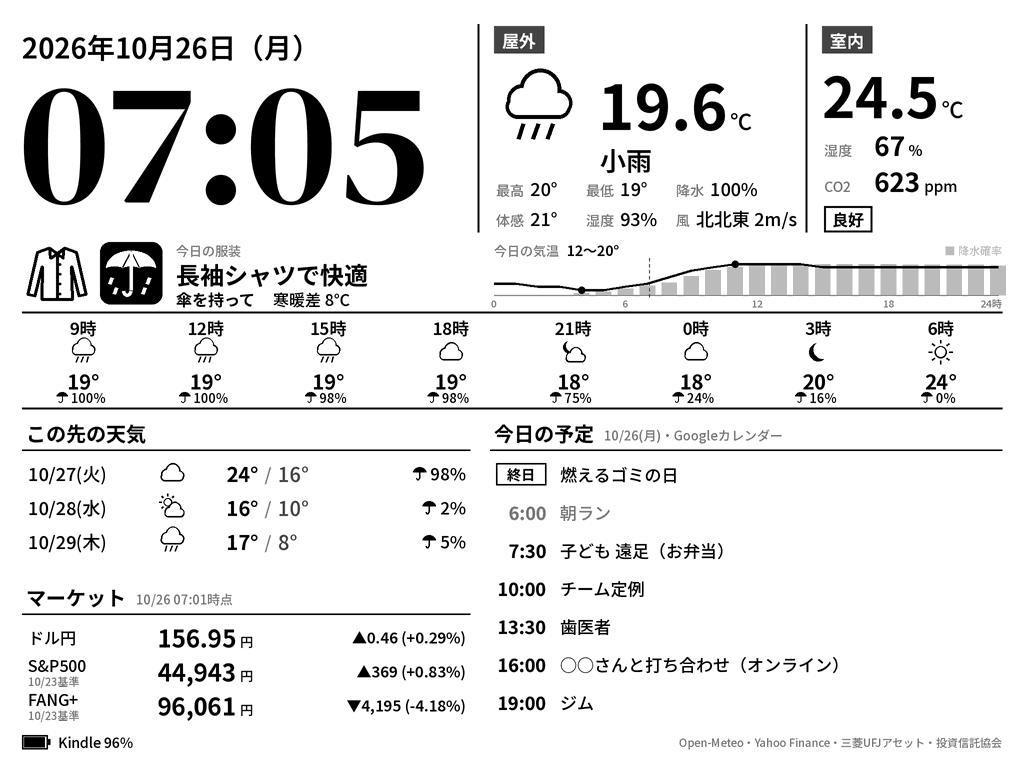
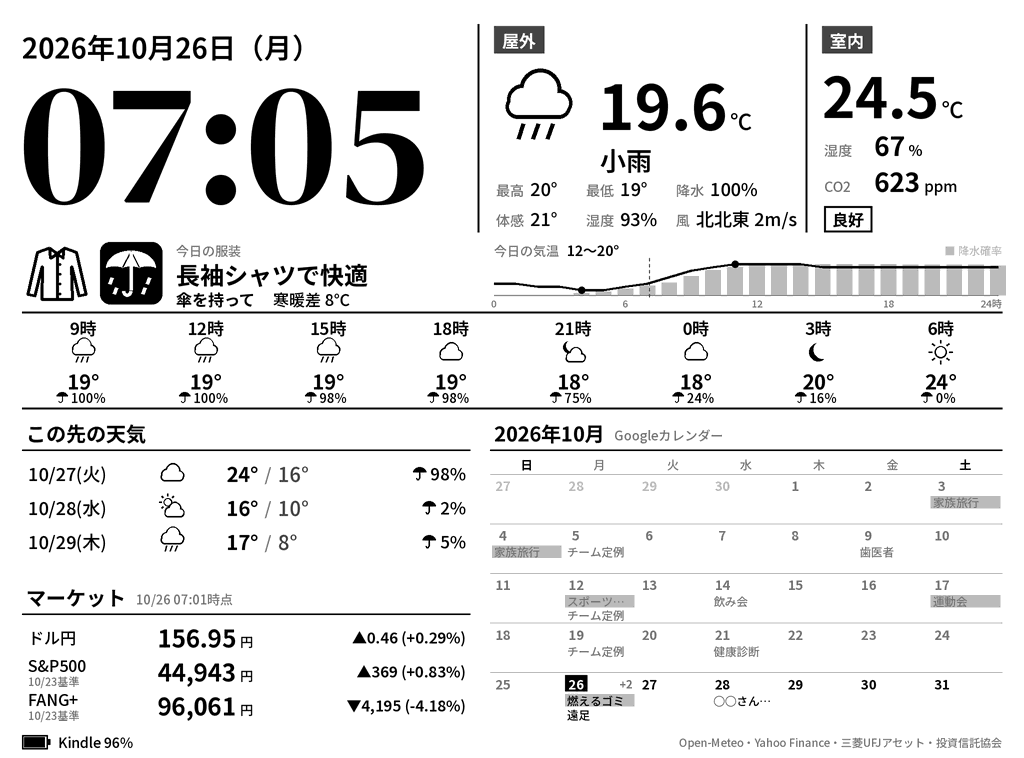
kindle_dashboard: show the calendar as a month view
Replace the today's-events list with a month grid (Sunday or Monday
start) showing event titles per day, Japanese holidays (jpholiday),
all-day events as bars, today highlighted and past days greyed.

Claude-Session: https://claude.ai/code/session_01U5J8BxMP2MPkhSzA51AjtL

diff --git a/kindle_dashboard/server/dashboard/render.py b/kindle_dashboard/server/dashboard/render.py
@@ -14,6 +14,7 @@ from pathlib import Path
 from PIL import Image, ImageDraw, ImageFont
 
 from . import icons
+from . import gcal
 from .gcal import Event
 from .sources import Indoor, Quote, Weather, co2_level, icon_kind, weather_label, wind_direction_ja
 
@@ -41,8 +42,8 @@ class DashboardData:
     charging: bool = False
     failing: list[str] = field(default_factory=list)
     news_label: str = "NHKニュース"
-    events: list[Event] | None = None  # None ならニュース、リストなら今日の予定を出す
-    events_label: str = "今日の予定"
+    events: list[Event] | None = None  # None ならニュース、リストなら今月のカレンダーを出す
+    week_start: str = "sunday"
     credits: str = "Open-Meteo・Yahoo Finance・三菱UFJアセット・投資信託協会"
 
 
@@ -416,30 +417,49 @@ def draw_news(c: Canvas, news: list[str], label: str):
         c.text(x0 + 20, mid, c.fit(title, 17, "Medium", x1 - x0 - 24), 17, "Medium", anchor="lm")
 
 
-def draw_events(c: Canvas, events: list[Event], now: datetime, label: str):
-    """ニュース欄の代わりに今日の予定。左に時刻（終日は枠付き）、終わった予定は灰色。"""
+def draw_month(c: Canvas, events: list[Event], now: datetime, week_start: str = "sunday"):
+    """ニュース欄の代わりに今月のカレンダー。祝日・終日予定は灰色の帯、今日は日付を白黒反転。"""
     x0, x1, y = 490, c.w - M, LOWER_TOP
-    day = f"{now.month}/{now.day}({WEEKDAYS[now.weekday()]})・Googleカレンダー"
-    draw_heading(c, x0, x1, y, label, day)
-    if not events:
-        c.text(x0 + 8, y + 56, "予定はありません", 18, "Medium", fill=GRAY, anchor="lm")
-        return
-    rows = 7
-    shown = events if len(events) <= rows else events[:rows - 1]
-    for i, ev in enumerate(shown):
-        mid = y + 38 + i * 38 + 18
-        color = GRAY if ev.end <= now else BLACK
-        if ev.all_day:
-            c.rect(x0 + 6, mid - 11, x0 + 56, mid + 11, outline=color, width=1.5)
-            c.text(x0 + 31, mid, "終日", 14, "Bold", fill=color, anchor="mm")
-        else:
-            start = ev.start if ev.start.date() == now.date() else None
-            text = f"{start.hour}:{start:%M}" if start else "〜"
-            c.text(x0 + 56, mid, text, 18, "Bold", fill=color, anchor="rm")
-        c.text(x0 + 70, mid, c.fit(ev.title, 17, "Medium", x1 - x0 - 74), 17, "Medium", fill=color, anchor="lm")
-    if len(events) > rows:
-        mid = y + 38 + (rows - 1) * 38 + 18
-        c.text(x0 + 70, mid, f"ほか {len(events) - len(shown)} 件", 16, "Medium", fill=GRAY, anchor="lm")
+    draw_heading(c, x0, x1, y, f"{now.year}年{now.month}月", "Googleカレンダー")
+    grid = gcal.month_grid(now.date(), week_start)
+    events = events + gcal.holidays(grid[0][0], grid[-1][-1], now.tzinfo)
+    names = "日月火水木金土" if week_start == "sunday" else "月火水木金土日"
+    cw = (x1 - x0) / 7
+    head_y = y + 46
+    for i, name in enumerate(names):
+        weekend = name in "日土"
+        c.text(x0 + cw * i + cw / 2, head_y, name, 12, "Bold" if weekend else "Medium",
+               fill=BLACK if weekend else GRAY, anchor="mm")
+
+    top, bottom = head_y + 10, 722
+    rh = (bottom - top) / len(grid)
+    line_h, size = 14, 11.5
+    for r, week in enumerate(grid):
+        ry = top + r * rh
+        c.line(x0, ry, x1, ry, 1, fill=LIGHT)
+        for i, day in enumerate(week):
+            cx = x0 + i * cw
+            in_month = day.month == now.month
+            past = day < now.date()
+            color = BLACK if in_month and not past else GRAY if in_month else LIGHT
+            if day == now.date():
+                c.rect(cx + 2, ry + 3, cx + 24, ry + 19, fill=BLACK)
+                c.text(cx + 13, ry + 11, str(day.day), 13, "Bold", fill=WHITE, anchor="mm")
+            else:
+                c.text(cx + 13, ry + 11, str(day.day), 13, "Bold", fill=color, anchor="mm")
+            if not in_month:
+                continue
+            todays = gcal.events_on(events, day)
+            room = max(0, int((rh - 21) // line_h))
+            shown = todays[:room]
+            for k, ev in enumerate(shown):
+                ey = ry + 21 + k * line_h + line_h / 2
+                fill = GRAY if past else BLACK
+                if ev.all_day:  # 終日・祝日は帯
+                    c.rect(cx + 2, ey - line_h / 2 + 1, cx + cw - 2, ey + line_h / 2 - 1, fill=LIGHT)
+                c.text(cx + 4, ey, c.fit(ev.title, size, "Medium", cw - 8), size, "Medium", fill=fill, anchor="lm")
+            if len(todays) > len(shown):  # 入りきらない件数は日付の右に
+                c.text(cx + cw - 4, ry + 11, f"+{len(todays) - len(shown)}", 11, "Bold", fill=GRAY, anchor="rm")
 
 
 def draw_footer(c: Canvas, data: DashboardData):
@@ -470,7 +490,7 @@ def render(data: DashboardData, fonts: Fonts, width: int = 1024, height: int = 7
     if data.events is None:
         draw_news(c, data.news, data.news_label)
     else:
-        draw_events(c, data.events, data.now, data.events_label)
+        draw_month(c, data.events, data.now, data.week_start)
     draw_footer(c, data)
     return c.finish()
 

diff --git a/kindle_dashboard/server/dashboard/gcal.py b/kindle_dashboard/server/dashboard/gcal.py
@@ -1,4 +1,4 @@
-"""Google カレンダー（iCal 形式の非公開 URL）から今日の予定を読む。
+"""Google カレンダー（iCal 形式の非公開 URL）から今月の予定を読む。
 
 Google カレンダー → 設定 → 対象のカレンダー →「カレンダーの統合」→「iCal 形式の非公開 URL」
 をコピーして使う。OAuth の設定は不要。繰り返し予定も展開する。
@@ -10,6 +10,7 @@ from dataclasses import dataclass
 from datetime import date, datetime, time, timedelta
 from zoneinfo import ZoneInfo
 
+import jpholiday
 import recurring_ical_events
 from icalendar import Calendar
 
@@ -22,6 +23,7 @@ class Event:
     start: datetime  # 終日予定はその日の 0:00
     end: datetime
     all_day: bool
+    holiday: bool = False  # 祝日（カレンダーではなく jpholiday から）
 
 
 def _to_datetime(value, tz: ZoneInfo) -> tuple[datetime, bool]:
@@ -32,10 +34,10 @@ def _to_datetime(value, tz: ZoneInfo) -> tuple[datetime, bool]:
     return datetime.combine(value, time(), tz), True
 
 
-def parse_events(ics_list: list[bytes], day: date, tz: ZoneInfo) -> list[Event]:
-    """その日にかかる予定を、終日 → 開始時刻順に並べて返す。"""
-    start = datetime.combine(day, time(), tz)
-    end = start + timedelta(days=1)
+def parse_events(ics_list: list[bytes], first: date, last: date, tz: ZoneInfo) -> list[Event]:
+    """first〜last（両端含む）にかかる予定を、終日 → 開始時刻順に並べて返す。"""
+    start = datetime.combine(first, time(), tz)
+    end = datetime.combine(last + timedelta(days=1), time(), tz)
     events = []
     for ics in ics_list:
         cal = Calendar.from_ical(ics)
@@ -52,8 +54,37 @@ def parse_events(ics_list: list[bytes], day: date, tz: ZoneInfo) -> list[Event]:
     return sorted(events, key=lambda ev: (not ev.all_day, ev.start, ev.title))
 
 
-def fetch_events(urls: list[str], now: datetime) -> list[Event]:
-    return parse_events([http_get(u, timeout=30) for u in urls], now.date(), now.tzinfo)
+def month_grid(day: date, week_start: str = "sunday") -> list[list[date]]:
+    """day を含む月のカレンダー（週ごとの日付。前後の月の日も含む）。"""
+    first = day.replace(day=1)
+    offset = (first.weekday() + (1 if week_start == "sunday" else 0)) % 7
+    d = first - timedelta(days=offset)
+    weeks = []
+    while not weeks or d.month == day.month:
+        weeks.append([d + timedelta(days=i) for i in range(7)])
+        d += timedelta(days=7)
+    return weeks
+
+
+def holidays(first: date, last: date, tz: ZoneInfo) -> list[Event]:
+    return [Event(name, datetime.combine(d, time(), tz), datetime.combine(d + timedelta(days=1), time(), tz),
+                  True, holiday=True)
+            for d, name in jpholiday.between(first, last)]
+
+
+def events_on(events: list[Event], day: date) -> list[Event]:
+    """その日にかかる予定（祝日 → 終日 → 時刻順）。"""
+    tz = events[0].start.tzinfo if events else None
+    start = datetime.combine(day, time(), tz)
+    end = start + timedelta(days=1)
+    hits = [e for e in events if e.start < end and (e.end > start or (e.end == e.start and e.start >= start))]
+    return sorted(hits, key=lambda e: (not e.holiday, not e.all_day, e.start, e.title))
+
+
+def fetch_events(urls: list[str], now: datetime, week_start: str = "sunday") -> list[Event]:
+    """今月のカレンダーに表示する範囲（前後の週の端数を含む）の予定。"""
+    grid = month_grid(now.date(), week_start)
+    return parse_events([http_get(u, timeout=30) for u in urls], grid[0][0], grid[-1][-1], now.tzinfo)
 
 
 def calendar_urls(cfg: dict, env: dict[str, str]) -> list[str]:

diff --git a/kindle_dashboard/server/tests/test_gcal.py b/kindle_dashboard/server/tests/test_gcal.py
@@ -60,17 +60,43 @@ END:VCALENDAR
 """.encode()
 
 
-def test_parse_events_expands_recurrence_and_sorts():
-    events = gcal.parse_events([ICS, OTHER], date(2026, 10, 26), TZ)
-    assert [e.title for e in events] == ["燃えるゴミの日", "朝ラン", "家族カレンダーの予定", "チーム定例"]
-    assert events[0].all_day
-    assert events[1].start == datetime(2026, 10, 26, 6, 30, tzinfo=TZ)  # UTC → 日本時間
-    assert events[3].start.hour == 10
+def test_parse_events_expands_recurrence_over_month():
+    events = gcal.parse_events([ICS, OTHER], date(2026, 9, 27), date(2026, 10, 31), TZ)
+    weekly = [e.start.day for e in events if e.title == "チーム定例"]
+    assert weekly == [5, 12, 19, 26]  # 毎週月曜
+    assert "中止" not in [e.title for e in events]
 
 
-def test_parse_events_other_weekday_has_no_weekly_event():
-    titles = [e.title for e in gcal.parse_events([ICS], date(2026, 10, 27), TZ)]
-    assert titles == ["明日の予定"]
+def test_events_on_day_sorted_and_utc_converted():
+    events = gcal.parse_events([ICS, OTHER], date(2026, 9, 27), date(2026, 10, 31), TZ)
+    day = gcal.events_on(events, date(2026, 10, 26))
+    assert [e.title for e in day] == ["燃えるゴミの日", "朝ラン", "家族カレンダーの予定", "チーム定例"]
+    assert day[1].start == datetime(2026, 10, 26, 6, 30, tzinfo=TZ)  # UTC → 日本時間
+    assert [e.title for e in gcal.events_on(events, date(2026, 10, 27))] == ["明日の予定"]
+
+
+def test_multi_day_all_day_event_appears_on_each_day():
+    ev = gcal.Event("旅行", datetime(2026, 10, 3, tzinfo=TZ), datetime(2026, 10, 5, tzinfo=TZ), True)
+    assert [bool(gcal.events_on([ev], date(2026, 10, d))) for d in (2, 3, 4, 5)] == [False, True, True, False]
+
+
+def test_holidays_come_first():
+    hol = gcal.holidays(date(2026, 10, 1), date(2026, 10, 31), TZ)
+    assert [(e.start.day, e.title) for e in hol] == [(12, "スポーツの日")]
+    ev = gcal.Event("朝の予定", datetime(2026, 10, 12, 7, tzinfo=TZ), datetime(2026, 10, 12, 8, tzinfo=TZ), False)
+    assert [e.title for e in gcal.events_on([ev] + hol, date(2026, 10, 12))] == ["スポーツの日", "朝の予定"]
+
+
+@pytest.mark.parametrize("day,week_start,weeks,first,last", [
+    (date(2026, 10, 26), "sunday", 5, date(2026, 9, 27), date(2026, 10, 31)),
+    (date(2026, 2, 10), "sunday", 4, date(2026, 2, 1), date(2026, 2, 28)),
+    (date(2026, 8, 1), "sunday", 6, date(2026, 7, 26), date(2026, 9, 5)),
+    (date(2026, 10, 26), "monday", 5, date(2026, 9, 28), date(2026, 11, 1)),
+])
+def test_month_grid(day, week_start, weeks, first, last):
+    grid = gcal.month_grid(day, week_start)
+    assert len(grid) == weeks and grid[0][0] == first and grid[-1][-1] == last
+    assert all(len(w) == 7 for w in grid)
 
 
 @pytest.mark.parametrize("hhmm,expected", [("02:59", False), ("03:00", True), ("08:59", True), ("09:00", False)])
@@ -100,7 +126,7 @@ def _dash(hour, value):
 
 
 def test_dashboard_shows_events_only_in_window():
-    events = gcal.parse_events([ICS], date(2026, 10, 26), TZ)
+    events = gcal.parse_events([ICS], date(2026, 9, 27), date(2026, 10, 31), TZ)
     assert _dash(7, events).events == events
     assert _dash(10, events).events is None  # 時間帯外はニュース
 

diff --git a/kindle_dashboard/server/dashboard/app.py b/kindle_dashboard/server/dashboard/app.py
@@ -42,9 +42,9 @@ DEFAULT_CONFIG = {
          "unit": "円", "decimals": 0, "refresh_minutes": 60},  # iFreeNEXT FANG+インデックス
     ]},
     "indoor": {"provider": "none", "device_id": ""},
-    # Google カレンダー: window の時間帯だけニュース欄を今日の予定に替える。
+    # Google カレンダー: window の時間帯だけニュース欄を今月のカレンダーに替える。
     # ics_urls は「iCal 形式の非公開 URL」（環境変数 CALENDAR_ICS_URLS でも可）
-    "calendar": {"ics_urls": [], "window": ["03:00", "09:00"], "label": "今日の予定"},
+    "calendar": {"ics_urls": [], "window": ["03:00", "09:00"], "week_start": "sunday"},
     "credits": "Open-Meteo・Yahoo Finance・三菱UFJアセット・投資信託協会",
 }
 
@@ -73,7 +73,8 @@ def build_store(cfg: dict, now: Callable[[], datetime], env=os.environ) -> DataS
         store.add("indoor", "室内", lambda: sources.fetch_indoor(cfg, env), ttl["indoor"])
     urls = gcal.calendar_urls(cfg, env)
     if urls:
-        store.add("calendar", "予定", lambda: gcal.fetch_events(urls, now()), ttl["calendar"])
+        week_start = cfg["calendar"].get("week_start", "sunday")
+        store.add("calendar", "予定", lambda: gcal.fetch_events(urls, now(), week_start), ttl["calendar"])
     return store
 
 
@@ -87,12 +88,12 @@ class Dashboard:
         get = lambda name: self.store.get(name) if name in self.store.sources else None  # noqa: E731
         now = self.now()
         cal = self.cfg["calendar"]
-        # 時間帯内で予定が取得できていればニュースの代わりに出す（取得失敗中はニュースのまま）
+        # 時間帯内で予定が取得できていればニュースの代わりに月表示（取得失敗中はニュースのまま）
         events = get("calendar") if gcal.in_window(now, cal["window"]) else None
         return DashboardData(
             now=now,
             events=events,
-            events_label=cal.get("label", "今日の予定"),
+            week_start=cal.get("week_start", "sunday"),
             weather=get("weather"),
             quotes=[src.value or src.label for n, src in self.store.sources.items() if n.startswith("market")],
             news=get("news") or [],

diff --git a/kindle_dashboard/server/dashboard/demo.py b/kindle_dashboard/server/dashboard/demo.py
@@ -21,20 +21,28 @@ def demo_day_hours(now: datetime) -> list[HourPoint]:
 
 
 def demo_events(now: datetime) -> list[Event]:
-    day = now.replace(hour=0, minute=0, second=0, microsecond=0)
+    """今月のあちこちに散らした予定。"""
+    first = now.replace(day=1, hour=0, minute=0, second=0, microsecond=0)
 
-    def at(h, m=0):
-        return day + timedelta(hours=h, minutes=m)
+    def at(day, h=0, m=0, hours=1, all_day=False, title=""):
+        s = first + timedelta(days=day - 1, hours=h, minutes=m)
+        e = s + (timedelta(days=hours) if all_day else timedelta(hours=hours))
+        return Event(title, s, e, all_day)
 
-    return [
-        Event("燃えるゴミの日", day, day + timedelta(days=1), True),
-        Event("朝ラン", at(6), at(6, 45), False),
-        Event("子ども 遠足（お弁当）", at(7, 30), at(8), False),
-        Event("チーム定例", at(10), at(11), False),
-        Event("歯医者", at(13, 30), at(14, 30), False),
-        Event("○○さんと打ち合わせ（オンライン）", at(16), at(17), False),
-        Event("ジム", at(19), at(20), False),
+    events = [
+        at(3, all_day=True, hours=2, title="家族旅行"),
+        at(9, 15, title="歯医者"),
+        at(14, 19, title="飲み会"),
+        at(17, all_day=True, title="運動会"),
+        at(21, 10, title="健康診断"),
+        at(28, 18, 30, title="○○さん誕生日会"),
     ]
+    for day in (5, 12, 19, 26):  # 毎週月曜の定例（日付は目安）
+        events.append(at(day, 10, title="チーム定例"))
+    today = now.day
+    events += [at(today, all_day=True, title="燃えるゴミ"), at(today, 7, 30, title="遠足"),
+               at(today, 13, 30, title="打ち合わせ")]
+    return events
 
 
 def demo_data(now: datetime) -> DashboardData:

diff --git a/kindle_dashboard/server/tests/test_render_and_server.py b/kindle_dashboard/server/tests/test_render_and_server.py
@@ -172,10 +172,19 @@ def test_clock_font_axes():
     assert f.getlength("14:19") > narrow.getlength("14:19")
 
 
-@pytest.mark.parametrize("count", [0, 3, 12])
-def test_render_events_panel(fonts, count):
+@pytest.mark.parametrize("count", [0, 3, 40])
+def test_render_month_panel(fonts, count):
     from dashboard.demo import demo_events
-    events = (demo_events(NOW) * 2)[:count]
     data = demo_data(NOW)
-    data.events = events
+    data.events = (demo_events(NOW) * 4)[:count]
+    assert render(data, fonts).size == (1024, 758)
+
+
+@pytest.mark.parametrize("month", [2, 8])  # 4 週・6 週の月
+def test_render_month_panel_week_counts(fonts, month):
+    from dashboard.demo import demo_events
+    now = NOW.replace(month=month, day=10)
+    data = demo_data(now)
+    data.events = demo_events(now)
+    data.week_start = "monday"
     assert render(data, fonts).size == (1024, 758)
